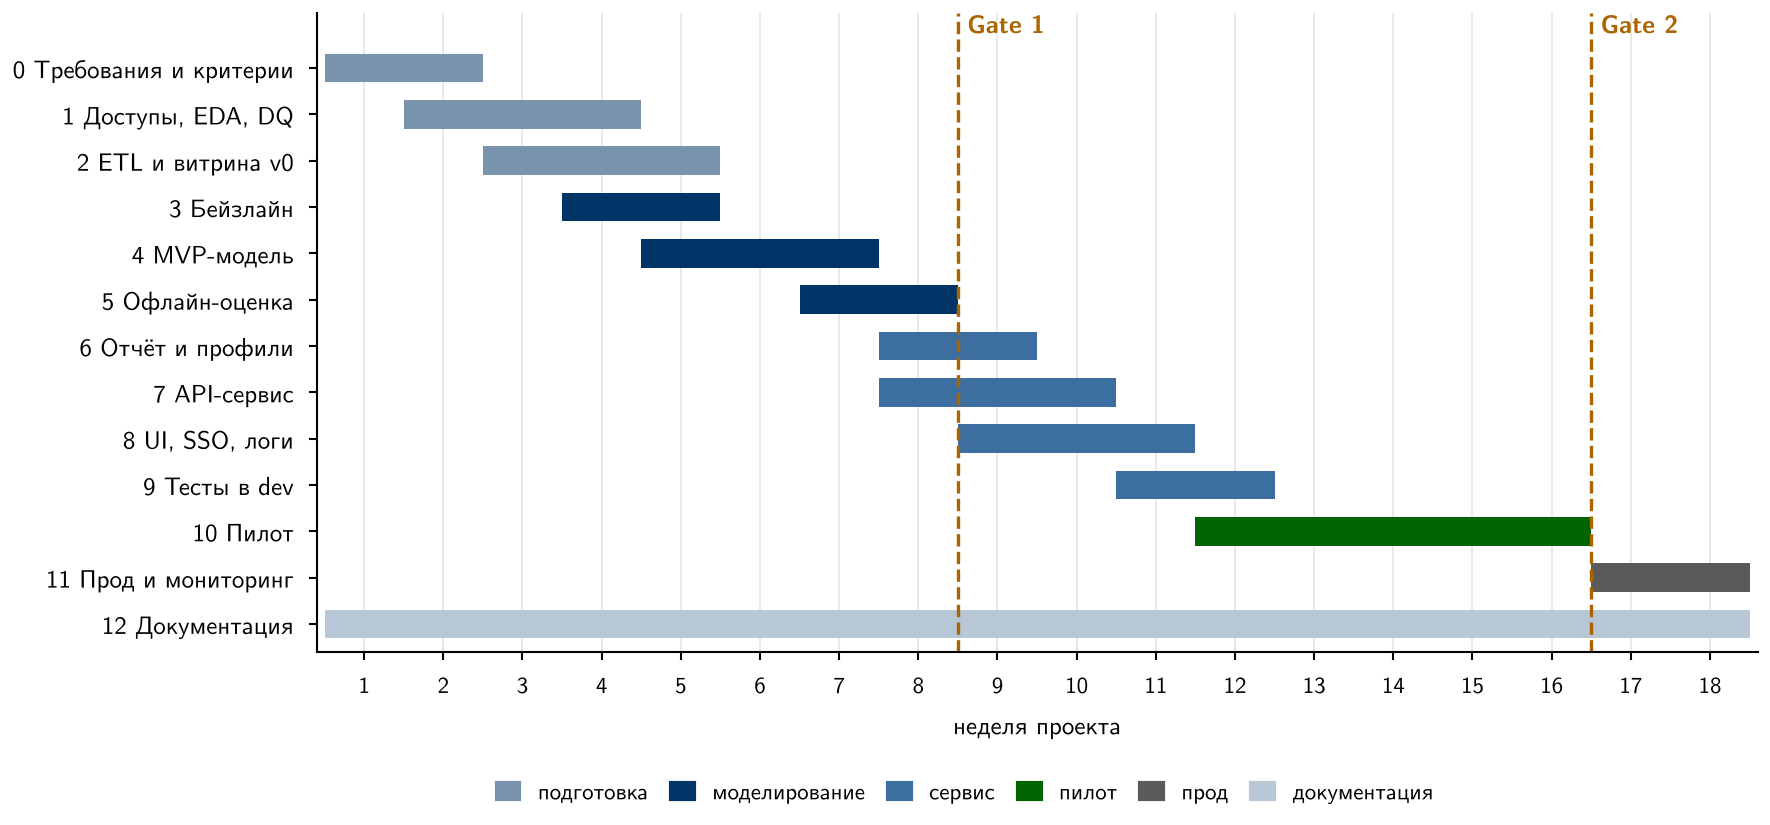
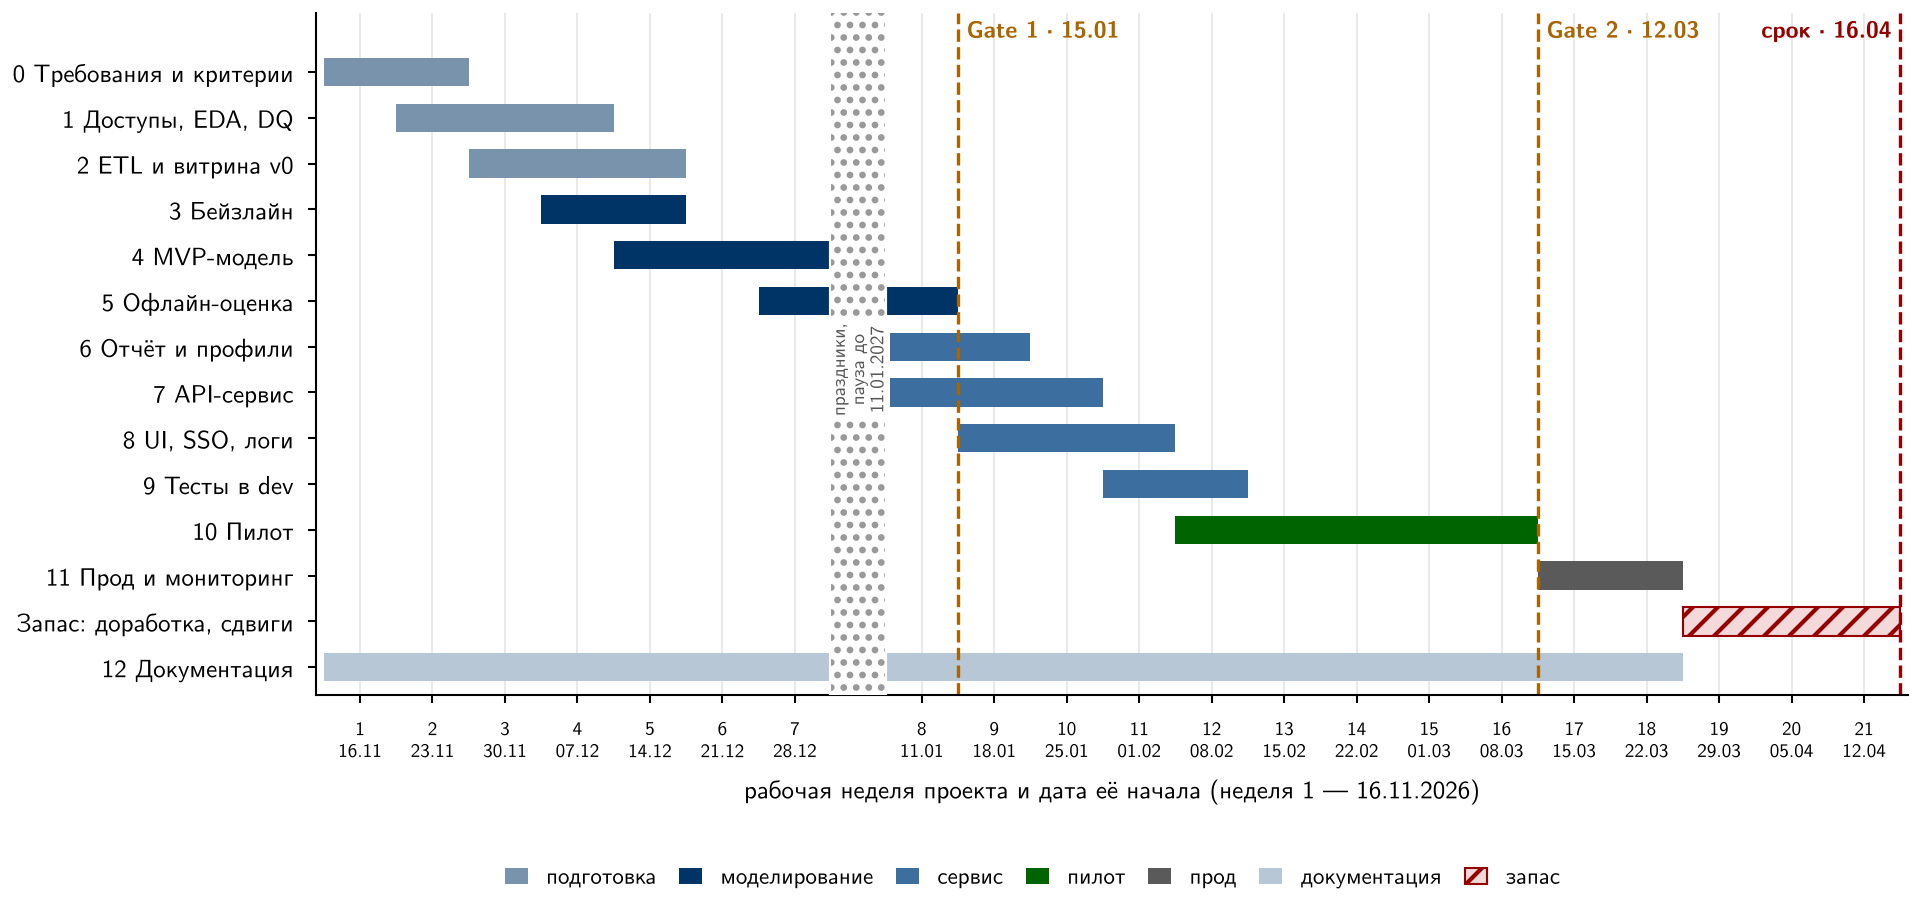
docs(diagrams): план-график с датами, паузой и запасом до недели 21
Closes #23

diff --git a/diagrams/draw.py b/diagrams/draw.py
@@ -191,31 +191,62 @@ TASKS = [
     ("6 Отчёт и профили", 8, 9, "svc"), ("7 API-сервис", 8, 10, "svc"),
     ("8 UI, SSO, логи", 9, 11, "svc"), ("9 Тесты в dev", 11, 12, "svc"),
     ("10 Пилот", 12, 16, "pilot"), ("11 Прод и мониторинг", 17, 18, "prod"),
+    ("Запас: доработка, сдвиги", 19, 21, "buf"),
     ("12 Документация", 1, 18, "doc"),
 ]
-COL = {"prep": "#7A93AC", "model": BLUE, "svc": "#3C6E9F", "pilot": GREEN, "prod": "#5A5A5A", "doc": "#B8C7D6"}
+COL = {"prep": "#7A93AC", "model": BLUE, "svc": "#3C6E9F", "pilot": GREEN, "prod": "#5A5A5A", "doc": "#B8C7D6",
+       "buf": "#F3D9D9"}
 NAMES = {"prep": "подготовка", "model": "моделирование", "svc": "сервис", "pilot": "пилот", "prod": "прод",
-         "doc": "документация"}
-fig, ax = plt.subplots(figsize=(5.9, 2.75))
+         "doc": "документация", "buf": "запас"}
+# Неделя 1 — 16.11.2026; новогодняя пауза до 10.01.2027 в счёт недель не идёт (README, §2.2)
+import datetime as _dt
+NWEEKS, PAUSE_AFTER, PAUSE_W = 21, 7, 0.75
+
+
+def wx(w):  # координата недели с учётом паузы
+    return w + (PAUSE_W if w > PAUSE_AFTER else 0)
+
+
+def wstart(w):
+    d = _dt.date(2026, 11, 16) + _dt.timedelta(weeks=w - 1)
+    return d + _dt.timedelta(weeks=1) if w > PAUSE_AFTER else d  # пауза — одна календарная неделя (04.01–10.01)
+
+
+fig, ax = plt.subplots(figsize=(6.4, 3.05))
 for i, (name, a, b, k) in enumerate(TASKS):
     y = len(TASKS) - 1 - i
-    ax.barh(y, b - a + 1, left=a - 0.5, height=0.62, color=COL[k], edgecolor="none")
-for wk, lab in [(8.5, "Gate 1"), (16.5, "Gate 2")]:
-    ax.axvline(wk, color=AMBER, lw=0.8, ls="--")
-    ax.text(wk + 0.12, len(TASKS) - 0.35, lab, color=AMBER, fontsize=6, ha="left", va="bottom", fontweight="bold")
+    if k == "buf":
+        ax.barh(y, wx(b) - wx(a) + 1, left=wx(a) - 0.5, height=0.62, color=COL[k], edgecolor=RED, lw=0.5,
+                hatch="////")
+    else:
+        ax.barh(y, wx(b) - wx(a) + 1, left=wx(a) - 0.5, height=0.62, color=COL[k], edgecolor="none")
+# пауза
+p0, p1 = wx(PAUSE_AFTER) + 0.5, wx(PAUSE_AFTER + 1) - 0.5
+ax.axvspan(p0, p1, color="white", zorder=3)
+ax.axvspan(p0, p1, fc="none", ec="#999999", hatch="....", lw=0, zorder=3)
+ax.text((p0 + p1) / 2, len(TASKS) / 2 - 0.5, "праздники,\nпауза до\n11.01.2027", rotation=90, fontsize=4.6,
+        color=GRAY, ha="center", va="center", zorder=4,
+        bbox=dict(fc="white", ec="none", pad=0.8))
+for w, lab, col in [(8, "Gate 1 · 15.01", AMBER), (16, "Gate 2 · 12.03", AMBER), (21, "срок · 16.04", RED)]:
+    ax.axvline(wx(w) + 0.5, color=col, lw=0.8, ls="--")
+    ax.text(wx(w) + 0.5 + (0.12 if w < 21 else -0.12), len(TASKS) - 0.35, lab, color=col, fontsize=5.6,
+            ha="left" if w < 21 else "right", va="bottom", fontweight="bold")
 ax.set_yticks(range(len(TASKS)))
 ax.set_yticklabels([t[0] for t in TASKS][::-1], fontsize=6)
-ax.set_xticks(range(1, 19)); ax.set_xticklabels(range(1, 19), fontsize=5.5)
-ax.set_xlim(0.4, 18.6); ax.set_ylim(-0.6, len(TASKS) + 0.2)
-ax.set_xlabel("неделя проекта", fontsize=6)
-for s in ["top", "right"]:
-    ax.spines[s].set_visible(False)
+ax.set_xticks([wx(w) for w in range(1, NWEEKS + 1)])
+ax.set_xticklabels([f"{w}\n{wstart(w):%d.%m}" for w in range(1, NWEEKS + 1)], fontsize=4.6, linespacing=1.15)
+ax.set_xlim(0.4, wx(NWEEKS) + 0.6); ax.set_ylim(-0.6, len(TASKS) + 0.3)
+ax.set_xlabel("рабочая неделя проекта и дата её начала (неделя 1 — 16.11.2026)", fontsize=6)
+for s_ in ["top", "right"]:
+    ax.spines[s_].set_visible(False)
 ax.spines["left"].set_linewidth(0.5); ax.spines["bottom"].set_linewidth(0.5)
 ax.tick_params(width=0.5, length=2)
 ax.grid(axis="x", color="#E5E5E5", lw=0.4); ax.set_axisbelow(True)
 from matplotlib.patches import Patch
-ax.legend(handles=[Patch(color=COL[k], label=NAMES[k]) for k in COL], fontsize=5.5, ncol=6, frameon=False,
-          loc="upper center", bbox_to_anchor=(0.45, -0.17), handlelength=1, columnspacing=1)
+ax.legend(handles=[Patch(fc=COL[k], ec=RED if k == "buf" else "none", hatch="////" if k == "buf" else None,
+                         lw=0.5, label=NAMES[k]) for k in COL],
+          fontsize=5.5, ncol=7, frameon=False, loc="upper center", bbox_to_anchor=(0.45, -0.22), handlelength=1,
+          columnspacing=1)
 fig.tight_layout(pad=0.3)
 fig.savefig(f"{OUT}/roadmap.png", dpi=DPI, facecolor="white")
 plt.close(fig)
